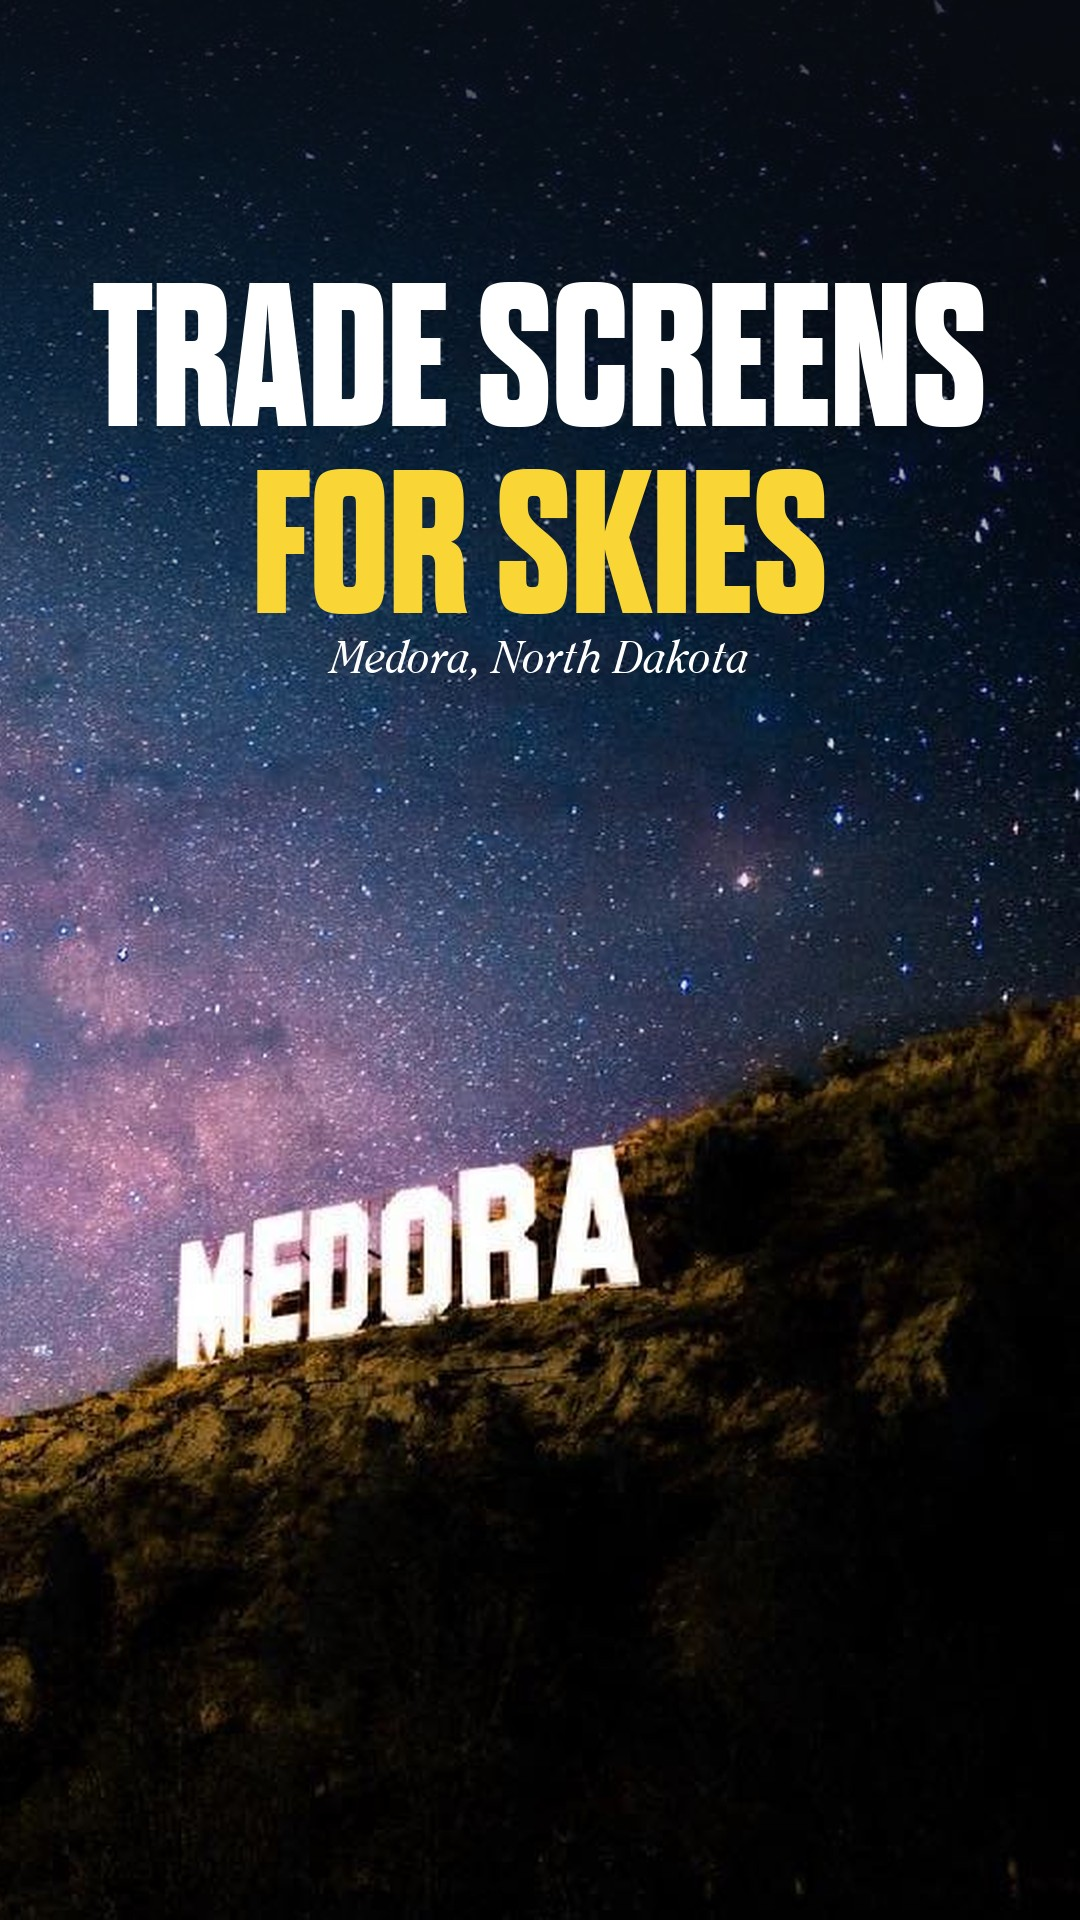
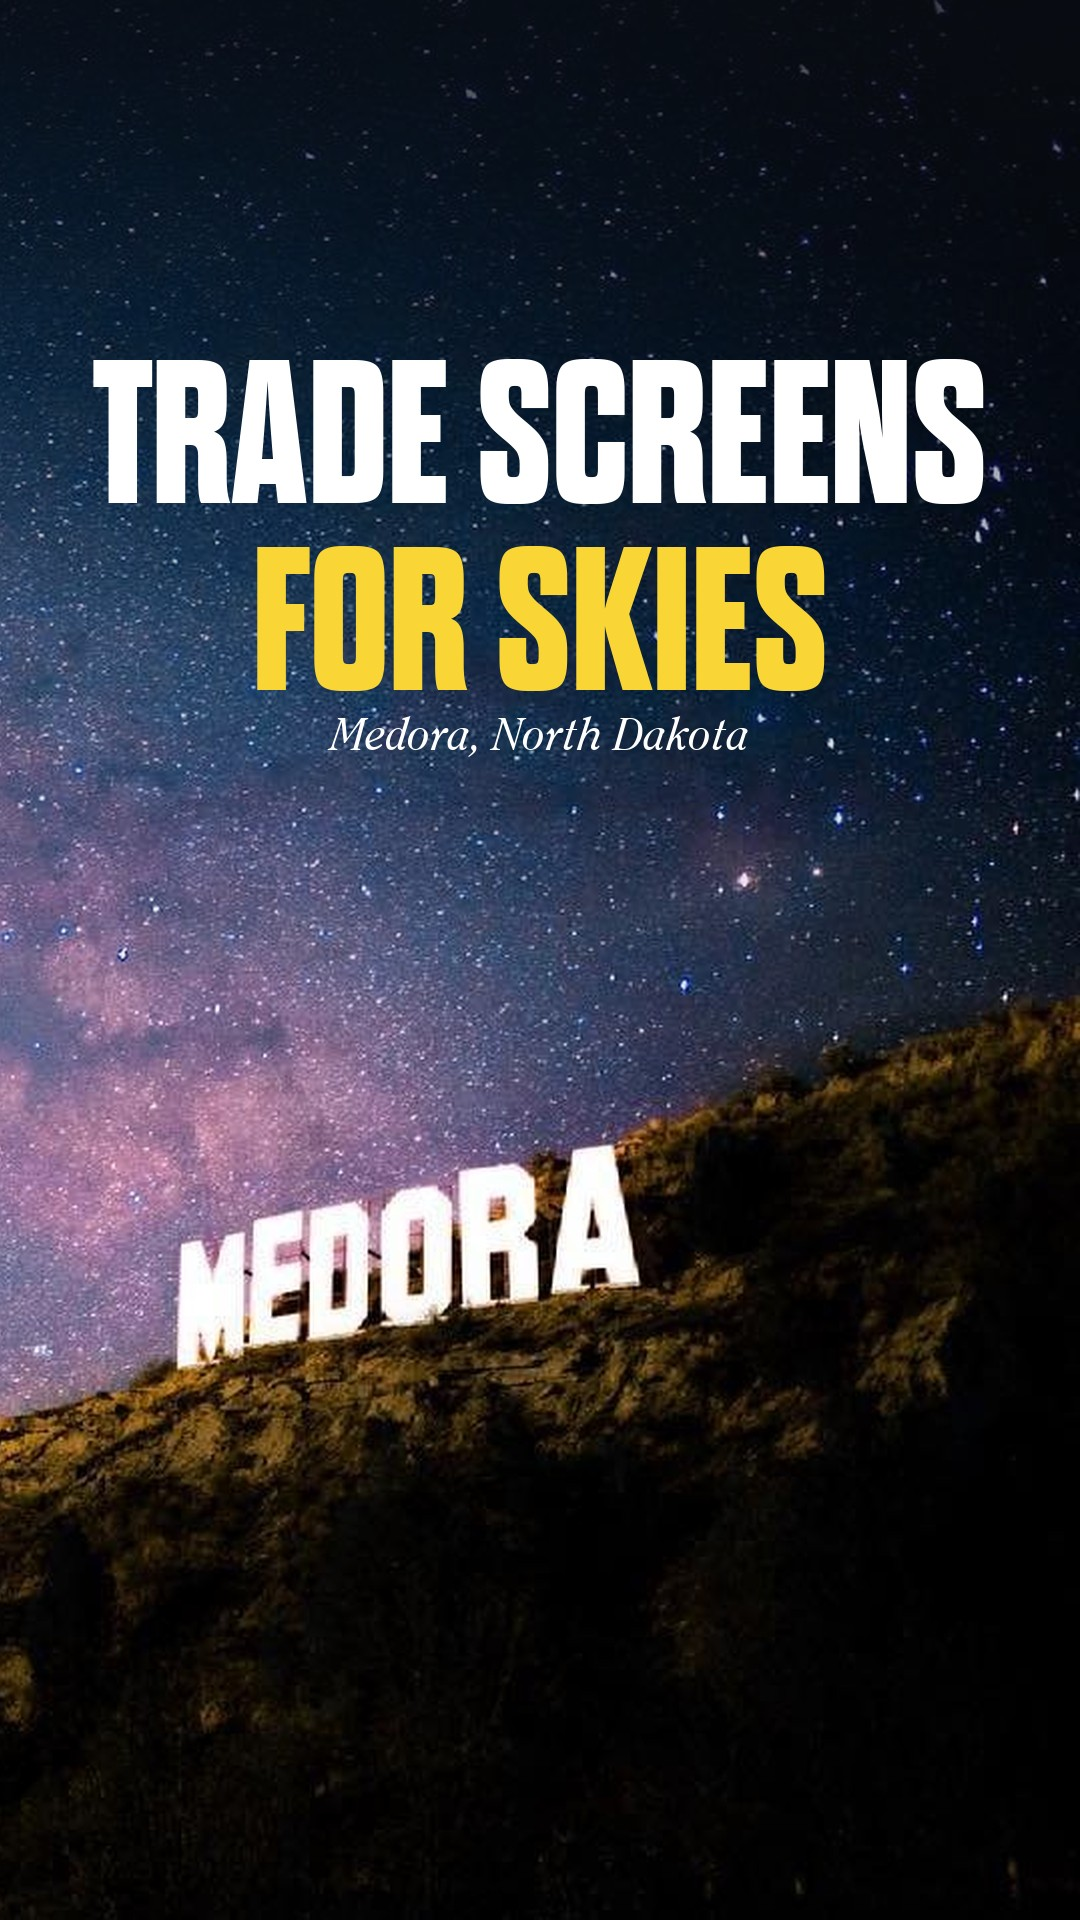
brand_card.py: 9:16 headline clears the Stories header
Claude-Session: https://claude.ai/code/session_01MntpPZpxZX6Lih7cW3uqWG

Changed region(s): [[0.0917, 0.125, 0.9167, 0.4062]]

diff --git a/scripts/brand_card.py b/scripts/brand_card.py
@@ -42,7 +42,7 @@ def main():
     f = font(size); lh = int(size * 0.92)
     sub_f = ImageFont.truetype(str(F / "clearfacestd-italic.otf"), int(W * 0.042))
     block = lh * len(lines) + (int(W * 0.07) if a.sub else 0)
-    y = int(H * (0.08 if a.ratio != "9:16" else 0.17)  # 9:16: clear of the Stories header (top ~14%)) if a.pos == "top" else H - block - int(H * 0.09)
+    y = int(H * (0.08 if a.ratio != "9:16" else 0.17)) if a.pos == "top" else H - block - int(H * 0.09)
     for i, l in enumerate(lines, 1):
         col = COLORS[a.accent_color] if i == a.accent else COLORS[a.color]
         d.text(((W - d.textlength(l, font=f)) / 2, y), l, font=f, fill=col); y += lh
